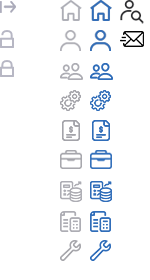
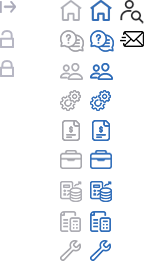
테이블 정렬, 버튼 정렬, 체크박스 정렬, gnb 이미지 수정

Changed region(s): [[0.5867, 0.0857, 0.7733, 0.2], [0.4, 0.0857, 0.56, 0.2]]

diff --git a/assets/scss/_partial/_table.scss b/assets/scss/_partial/_table.scss
@@ -233,8 +233,9 @@ table{
             }
             &.right{
                 text-align: right;
-                padding-right: 10px;
+                // padding-right: 10px;
                 // padding: rem(4) rem(6);
+                padding-right: rem(6);
             }
             &.hasToast{
                 position: relative;
@@ -339,11 +340,6 @@ table{
         }
         td{
             padding: rem(12);
-            &:first-child{
-                font-weight: 700;
-                padding: rem(12) rem(6);
-                border-right: 1px solid $tableBorder;
-            }
         }
     }
     &.chkType{

diff --git a/assets/scss/_partial/_check.scss b/assets/scss/_partial/_check.scss
@@ -14,12 +14,17 @@ input[type=radio]{
         &::before{
             content:'';
             display: inline-block;
-            vertical-align: sub;
+            vertical-align: middle;
             width: rem(18);
             height: rem(18);
             // vertical-align: -3px;
             background-image: url(../img/icoGroup.png);
             background-position: 0px -100px;
+        }
+        + input{
+            + label{
+                margin-left: rem(5);
+            }
         }
     }
     &:checked{

diff --git a/assets/scss/_partial/_page_memDetail.scss b/assets/scss/_partial/_page_memDetail.scss
@@ -57,6 +57,17 @@
     .chipBox{
         margin-top: 10px;
     }
+    table{        
+        &.rowType{
+            td{
+                &:first-child{
+                    font-weight: 700;
+                    padding: rem(12) rem(6);
+                    border-right: 1px solid $tableBorder;
+                }
+            }
+        }
+    }
 }
 
 

diff --git a/assets/scss/_partial/_btn.scss b/assets/scss/_partial/_btn.scss
@@ -136,7 +136,7 @@ button,
         margin-right: rem(2); //0913 J 추가
         font-weight: 500;
         word-break: keep-all;
-        vertical-align: text-bottom;  
+        // vertical-align: text-bottom;  
         background: $white;
         border: 1px solid $btnGray;
         border-radius: rem(20);      

diff --git a/assets/scss/_partial/_icon_pms.scss b/assets/scss/_partial/_icon_pms.scss
@@ -7,7 +7,8 @@
         &.home{
             background-position: -60px 0;
         }
-        &.member{
+        &.member{   //1:1문의에 들어감
+            width: rem(24);
             background-position: -60px -30px;
         }
         &.project{

diff --git a/assets/scss/_partial/_table_pms.scss b/assets/scss/_partial/_table_pms.scss
@@ -52,7 +52,7 @@ table{
     }
     tfoot{
         td{
-            padding: 0 6px;
+            padding: 0 4px;
             // background: $tfoot_pms;
             background: $tfootGray; //J
         }
